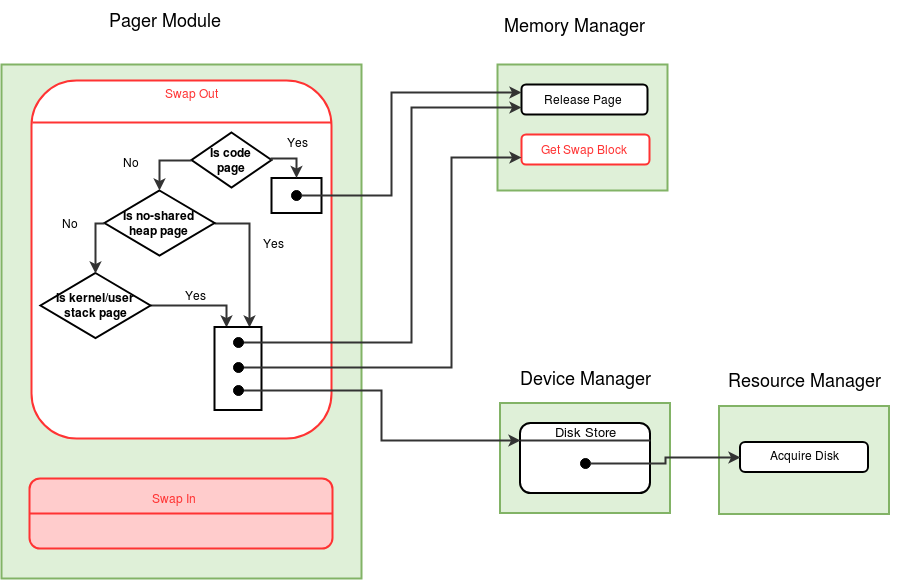
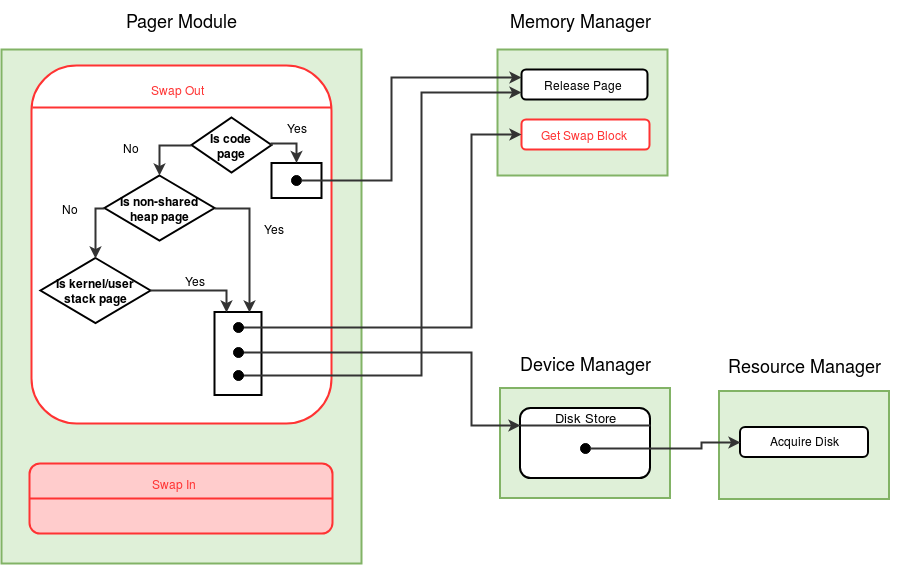
corrections in images

diff --git a/Roadmap.html b/Roadmap.html
@@ -5135,7 +5135,6 @@ will never get blocked. </p>
 
 <li><b>Swap In (function number = 2, <a href="os_modules/Module_6.html" target="_blank">Pager module</a> )</b></li>
 <br>
-<b style="font-size: 20px">Modifications to Timer Interrupt</b><br><br>
 
 <br>
 <figure style="text-align: center;">
@@ -5152,7 +5151,7 @@ will never get blocked. </p>
 <p>Now that, a process is selected to swap back into the memory, the TICK field for the selected process is initialized to 0. Code pages of the swapping-in process are not loaded into the memory, as these pages can be loaded later when exception occurs during execution of the process. Free memory pages for the heap, user stack and kernel stack are allocated using the <b>Get Free Page</b> function of the <a href="os_modules/Module_2.html" target="_blank">memory manager module</a> and disk blocks of the process are loaded into these memory pages using the <b>Disk Load</b> function of the <a href="os_modules/Module_4.html" target="_blank">device manager module</a>. The Page table is updated for the new heap, user stack and kernel stack pages. The swap disk blocks used by these pages are released using <b>Release Block</b> function of the memory manager module and <a href="os_design-files/process_table.html#disk_map_table" target="_blank">Disk map table</a> is invalidated for these pages. Also the SWAP FLAG in the process table of the swapped in process is set to 0, indicating that the process is no longer swapped out.</p>
 <p style="text-indent: 0px">Implement <i>Swap In</i> function using the detailed algorithm given in the pager module link above.</p><br>
 
-<p style="text-indent: 0px"><code>Note :</code><b>[Implementation Hazard]</b>There is a possibility that the code of the Pager module will exceed more than 2 disk blocks (more than 512 instructions). Try to write optimized code to fit the pager module code in 2 blocks. You can use the following strategy to reduce the number of instructions. According to given algorithm for <b>Swap Out</b> function, the actions done for code pages, heap pages, stack pages (user/kernel) are written separately. This results in calling Release Page function 3 times, Get Swap Block and Disk Store function 2 times. Combine these actions into a single while loop where each module function is called only once. The loop goes through the page table entries one by one (except library page entries) and perform appropriate actions if the page table entry for a page is valid. Apply similar strategy for <b>Swap In</b> function also. </p>
+<p style="text-indent: 0px"><code>Note :</code><b>[Implementation Hazard]</b> There is a possibility that the code of the Pager module will exceed more than 2 disk blocks (more than 512 instructions). Try to write optimized code to fit the pager module code in 2 blocks. You can use the following strategy to reduce the number of instructions. According to given algorithm for <b>Swap Out</b> function, the actions done for code pages, heap pages, stack pages (user/kernel) are written separately. This results in calling Release Page function 3 times, Get Swap Block and Disk Store function 2 times. Combine these actions into a single while loop where each module function is called only once. The loop should traverse through the page table entries one by one (except library page entries) and perform appropriate actions if the page table entry for a page is valid. Apply similar strategy for <b>Swap In</b> function also. </p>
 <br>
 
 
@@ -5205,12 +5204,12 @@ will never get blocked. </p>
 
     <b style="color:#26A65B">Assignment 2:</b> Modify the program written above to invoke <i>Exec</i> system call with the program provided <a href="test_prog.html#test_program_8" target="_blank">here</a>. The program given in above link will first create a linked list and write 100 numbers (PID*100+1 to PID*100+100) to the linked list. The linked list is later traversed and numbers are printed to the console. Run this program using the shell in the context of a user.  <br><br>
 
-    <b style="color:#26A65B">Assignment 3:</b> Run the program provided <a href="test_prog.html#test_program_9" target="_blank">here</a> using shell in the context of a user. The program will create a file with name "num.dat" with open permission. Integers 1 to 1300 are written to this file and file is closed. The program will then invoke <i>Fork</i> system call four times, back to back to create 13 processes and Exec system call is invoked with file "pgm1.xsm". The program for "pgm1.xsm" is provided <a href="test_prog.html#test_program_9" target="_blank">here</a>. "pgm1.xsm" will create a new file according to the PID of the process and read 100 numbers from file "num.dat" from offset (PID-3)*100 to (PID-3)*100+99 and write to newly created file. After successful execution, there should be 13 data files each containing 100 consecutive numbers (PID-3)*100+1 to PID-3)*100+100.<br><br>
+    <b style="color:#26A65B">Assignment 3:</b> Run the program provided <a href="test_prog.html#test_program_9" target="_blank">here</a> using shell in the context of a user. The program will create a file with name as "num.dat" and permission as <i>open access</i>. Integers 1 to 1300 are written to this file and file is closed. The program will then invoke <i>Fork</i> system call four times, back to back to create 13 processes and <i>Exec</i> system call is invoked with file "pgm1.xsm". The program for "pgm1.xsm" is provided <a href="test_prog.html#test_program_9" target="_blank">here</a>. "pgm1.xsm" will create a new file according to the PID of the process and read 100 numbers from file "num.dat" from offset (PID-3)*100 to (PID-3)*100+99 and write to newly created file. After successful execution, there should be 13 data files each containing 100 consecutive numbers (PID-3)*100+1 to (PID-3)*100+100.<br><br>
 
-    <b style="color:#26A65B">Assignment 4:</b> Run the program provided <a href="test_prog.html#test_program_11" target="_blank">here</a> using shell in the context of a user. The program will create a file with name "numbers.dat" with open permission and open the file. The program also invokes Semget for a shared semaphore. The program will then invoke <i>Fork</i> system call four times, back to back to create 13 processes. The 13 processes now share a file open instance and a semaphore. Each process will write 100 numbers consecutatively (PID*1000 to PID*1000+99) to the file "numbers.dat". After all processes complete writing to the file "numbers.dat" (Share count becomes 1300), Exec system call is invoked with file "pgm2.xsm". The program for "pgm2.xsm" is provided <a href="test_prog.html#test_program_12" target="_blank">here</a>. "pgm2.xsm" will create a new file according to the PID of the process and read 100 numbers from file "numbers.dat" from offset (PID-3)*100 to (PID-3)*100+99 and write to newly created file. After successful execution, there should be 13 data files each containing 100 numbers each X*1000 -X*1000+99, where X=[3,4..15]. <br><br>  
+    <b style="color:#26A65B">Assignment 4:</b> Run the program provided <a href="test_prog.html#test_program_11" target="_blank">here</a> using shell in the context of a user. The program will create a file with name as "numbers.dat" and permission as <i>open access</i> and open the file. The program also invokes <i>Semget</i> for a shared semaphore. The program will then invoke <i>Fork</i> system call four times, back to back to create 13 processes. The 13 processes now share a file open instance and a semaphore. Each process will write 100 numbers consecutively (PID*1000+1 to PID*1000+100) to the file "numbers.dat". <!--After all processes complete writing to the file "numbers.dat" (Share count becomes 1300), --><i>Exec</i> system call is invoked with file "pgm2.xsm". The program for "pgm2.xsm" is provided <a href="test_prog.html#test_program_12" target="_blank">here</a>. "pgm2.xsm" will create a new file according to the PID of the process and read 100 numbers from file "numbers.dat" from offset (PID-3)*100 to (PID-3)*100+99 and write to newly created file. After successful execution, there should be 13 data files each containing 100 numbers from X*1000 to X*1000+99, where X=[3,4..15]. The numbers written by a process in the newly created file need not be the same numbers the process has written in "numbers.dat" file. <br><br>  
 
 
-    <code>Note :</code>Shell process will fork to run the program provided by the user. Shell process will wait until this first child process completes its execution. But Shell will not wait for any other child processes forked during execution of the first child process. Shell may start execution even some processes running in the background. Don't halt the system immediately when the shell promt appears as some other process may be running in the background.
+    <code>Note :</code>Shell process will fork to run the program provided by the user. Shell process will wait until this first child process completes its execution. But Shell will not wait for any other child processes forked during execution of the first child process. Shell may again start execution even some processes running in the background. Don't halt the system immediately when the shell promt appears as some other process may be running in the background.
 <br>                    
   </div>
   </div>
